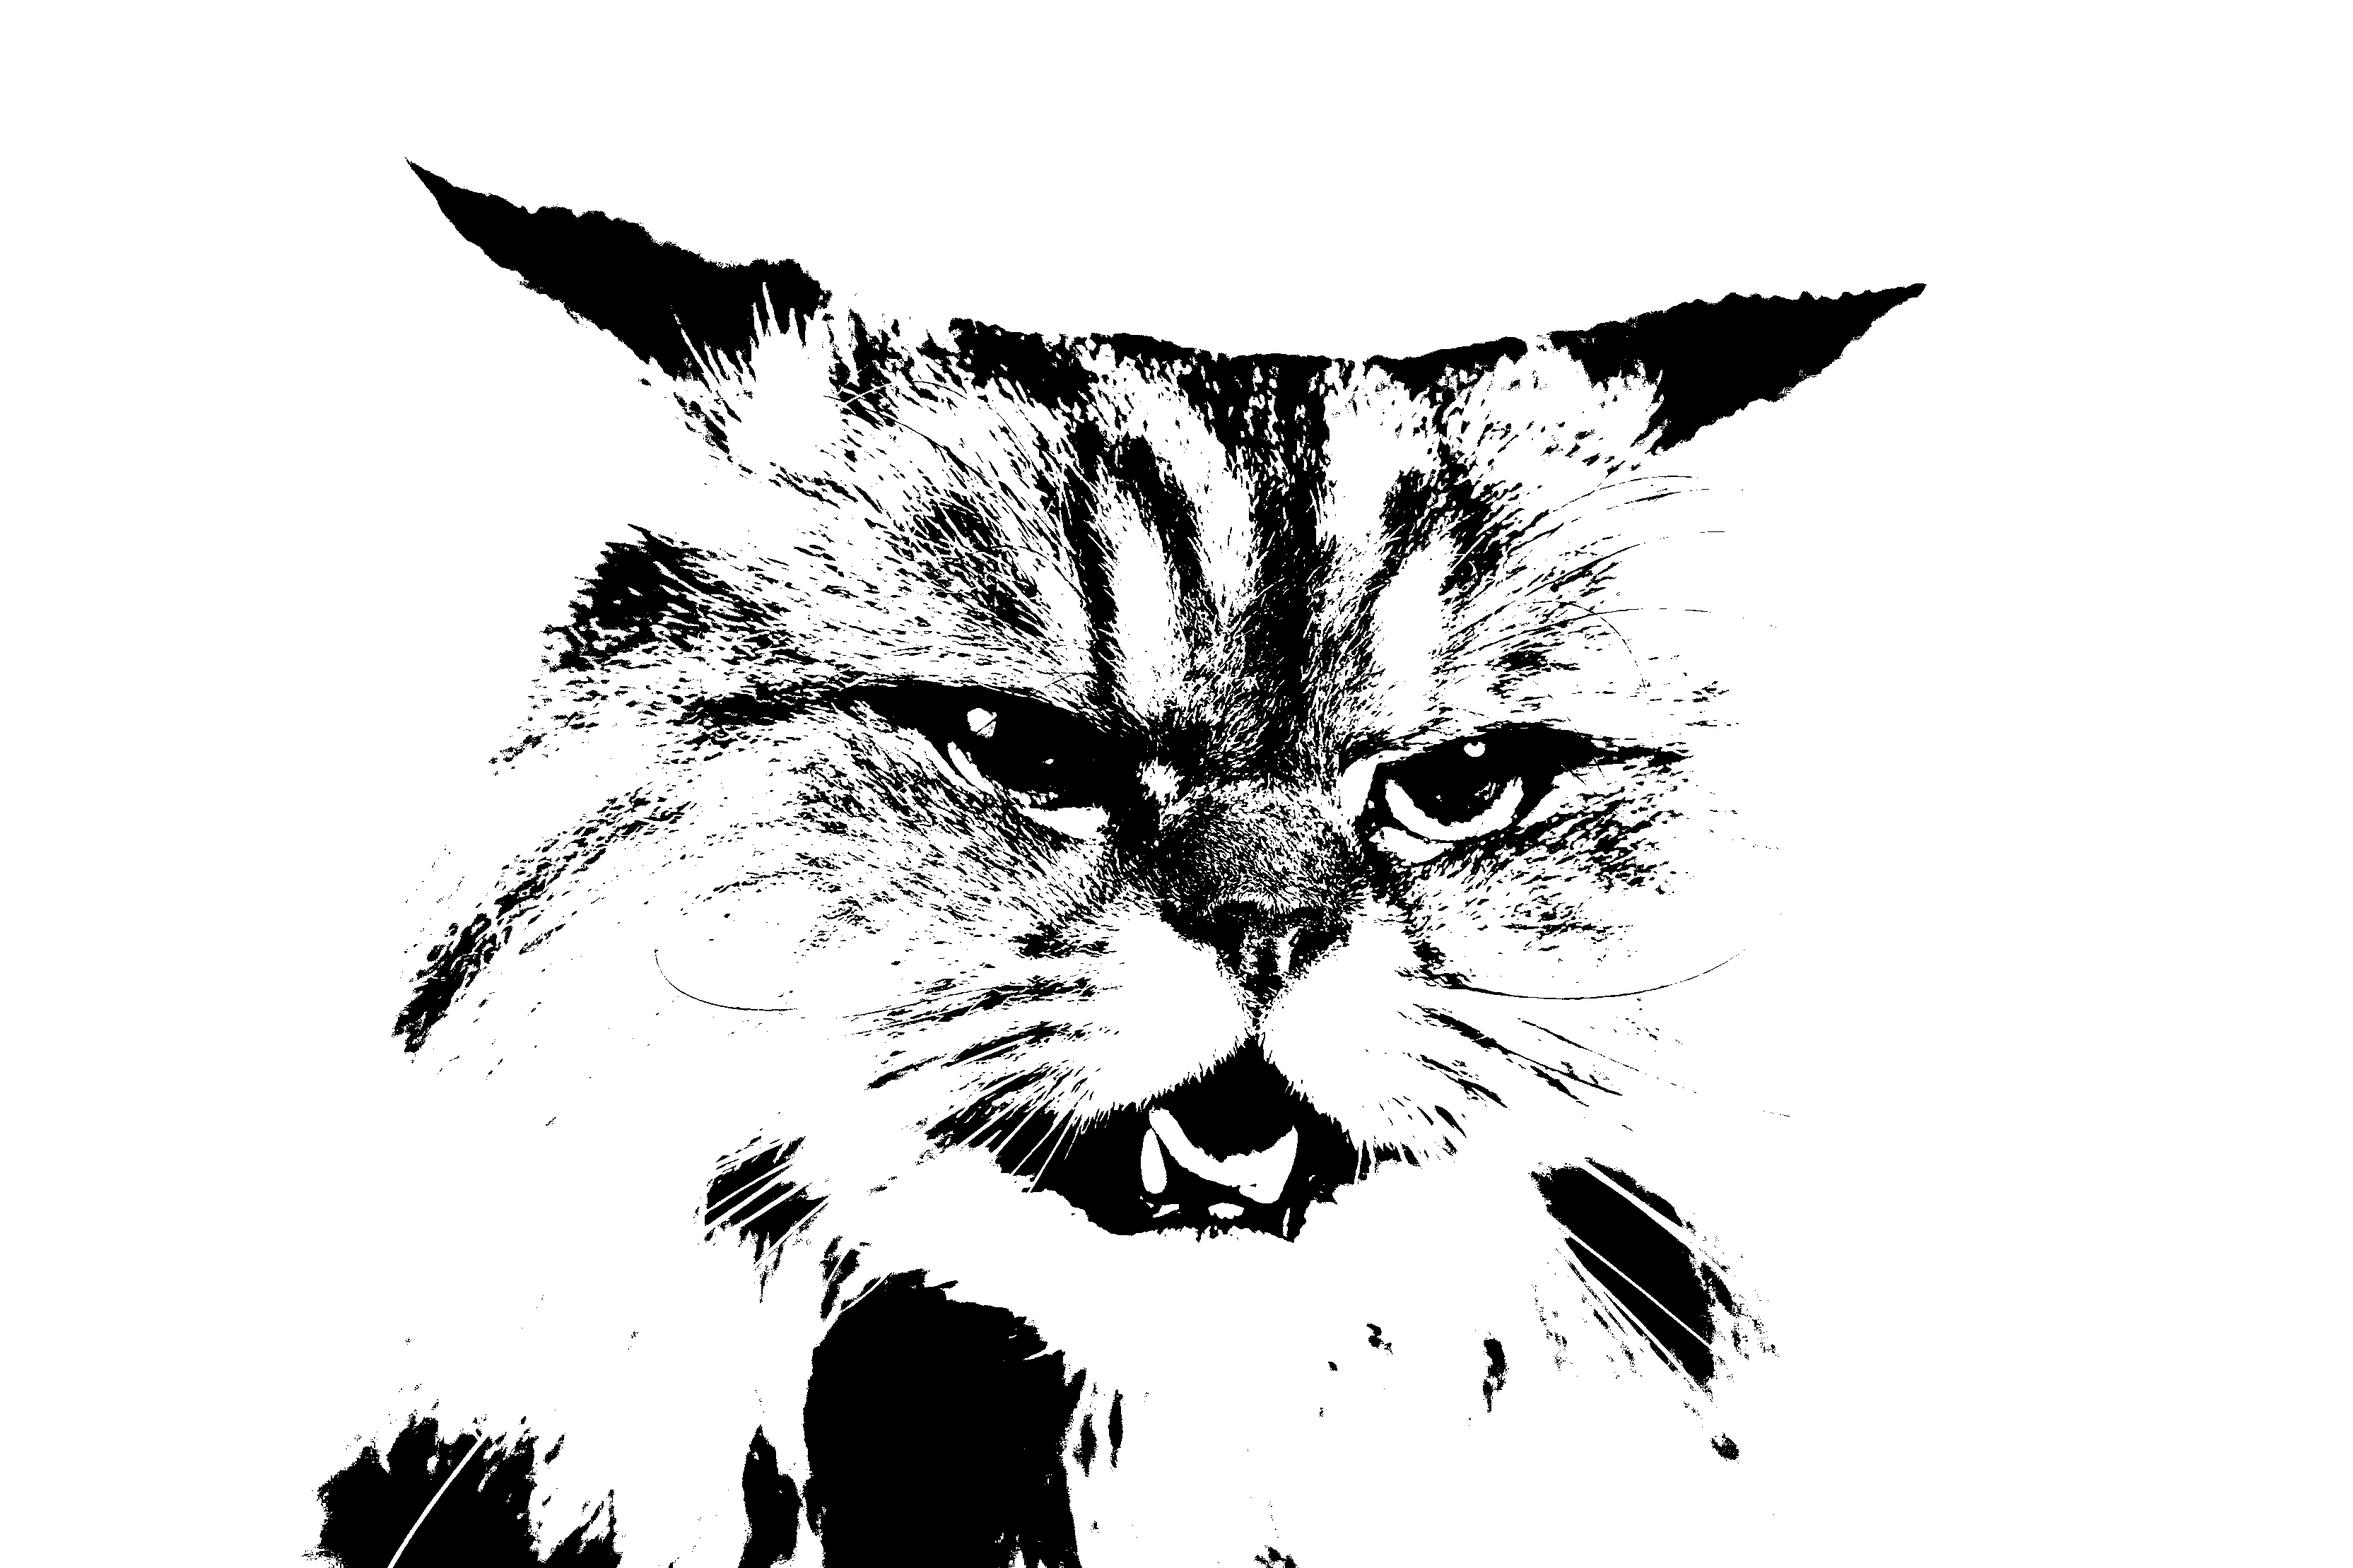
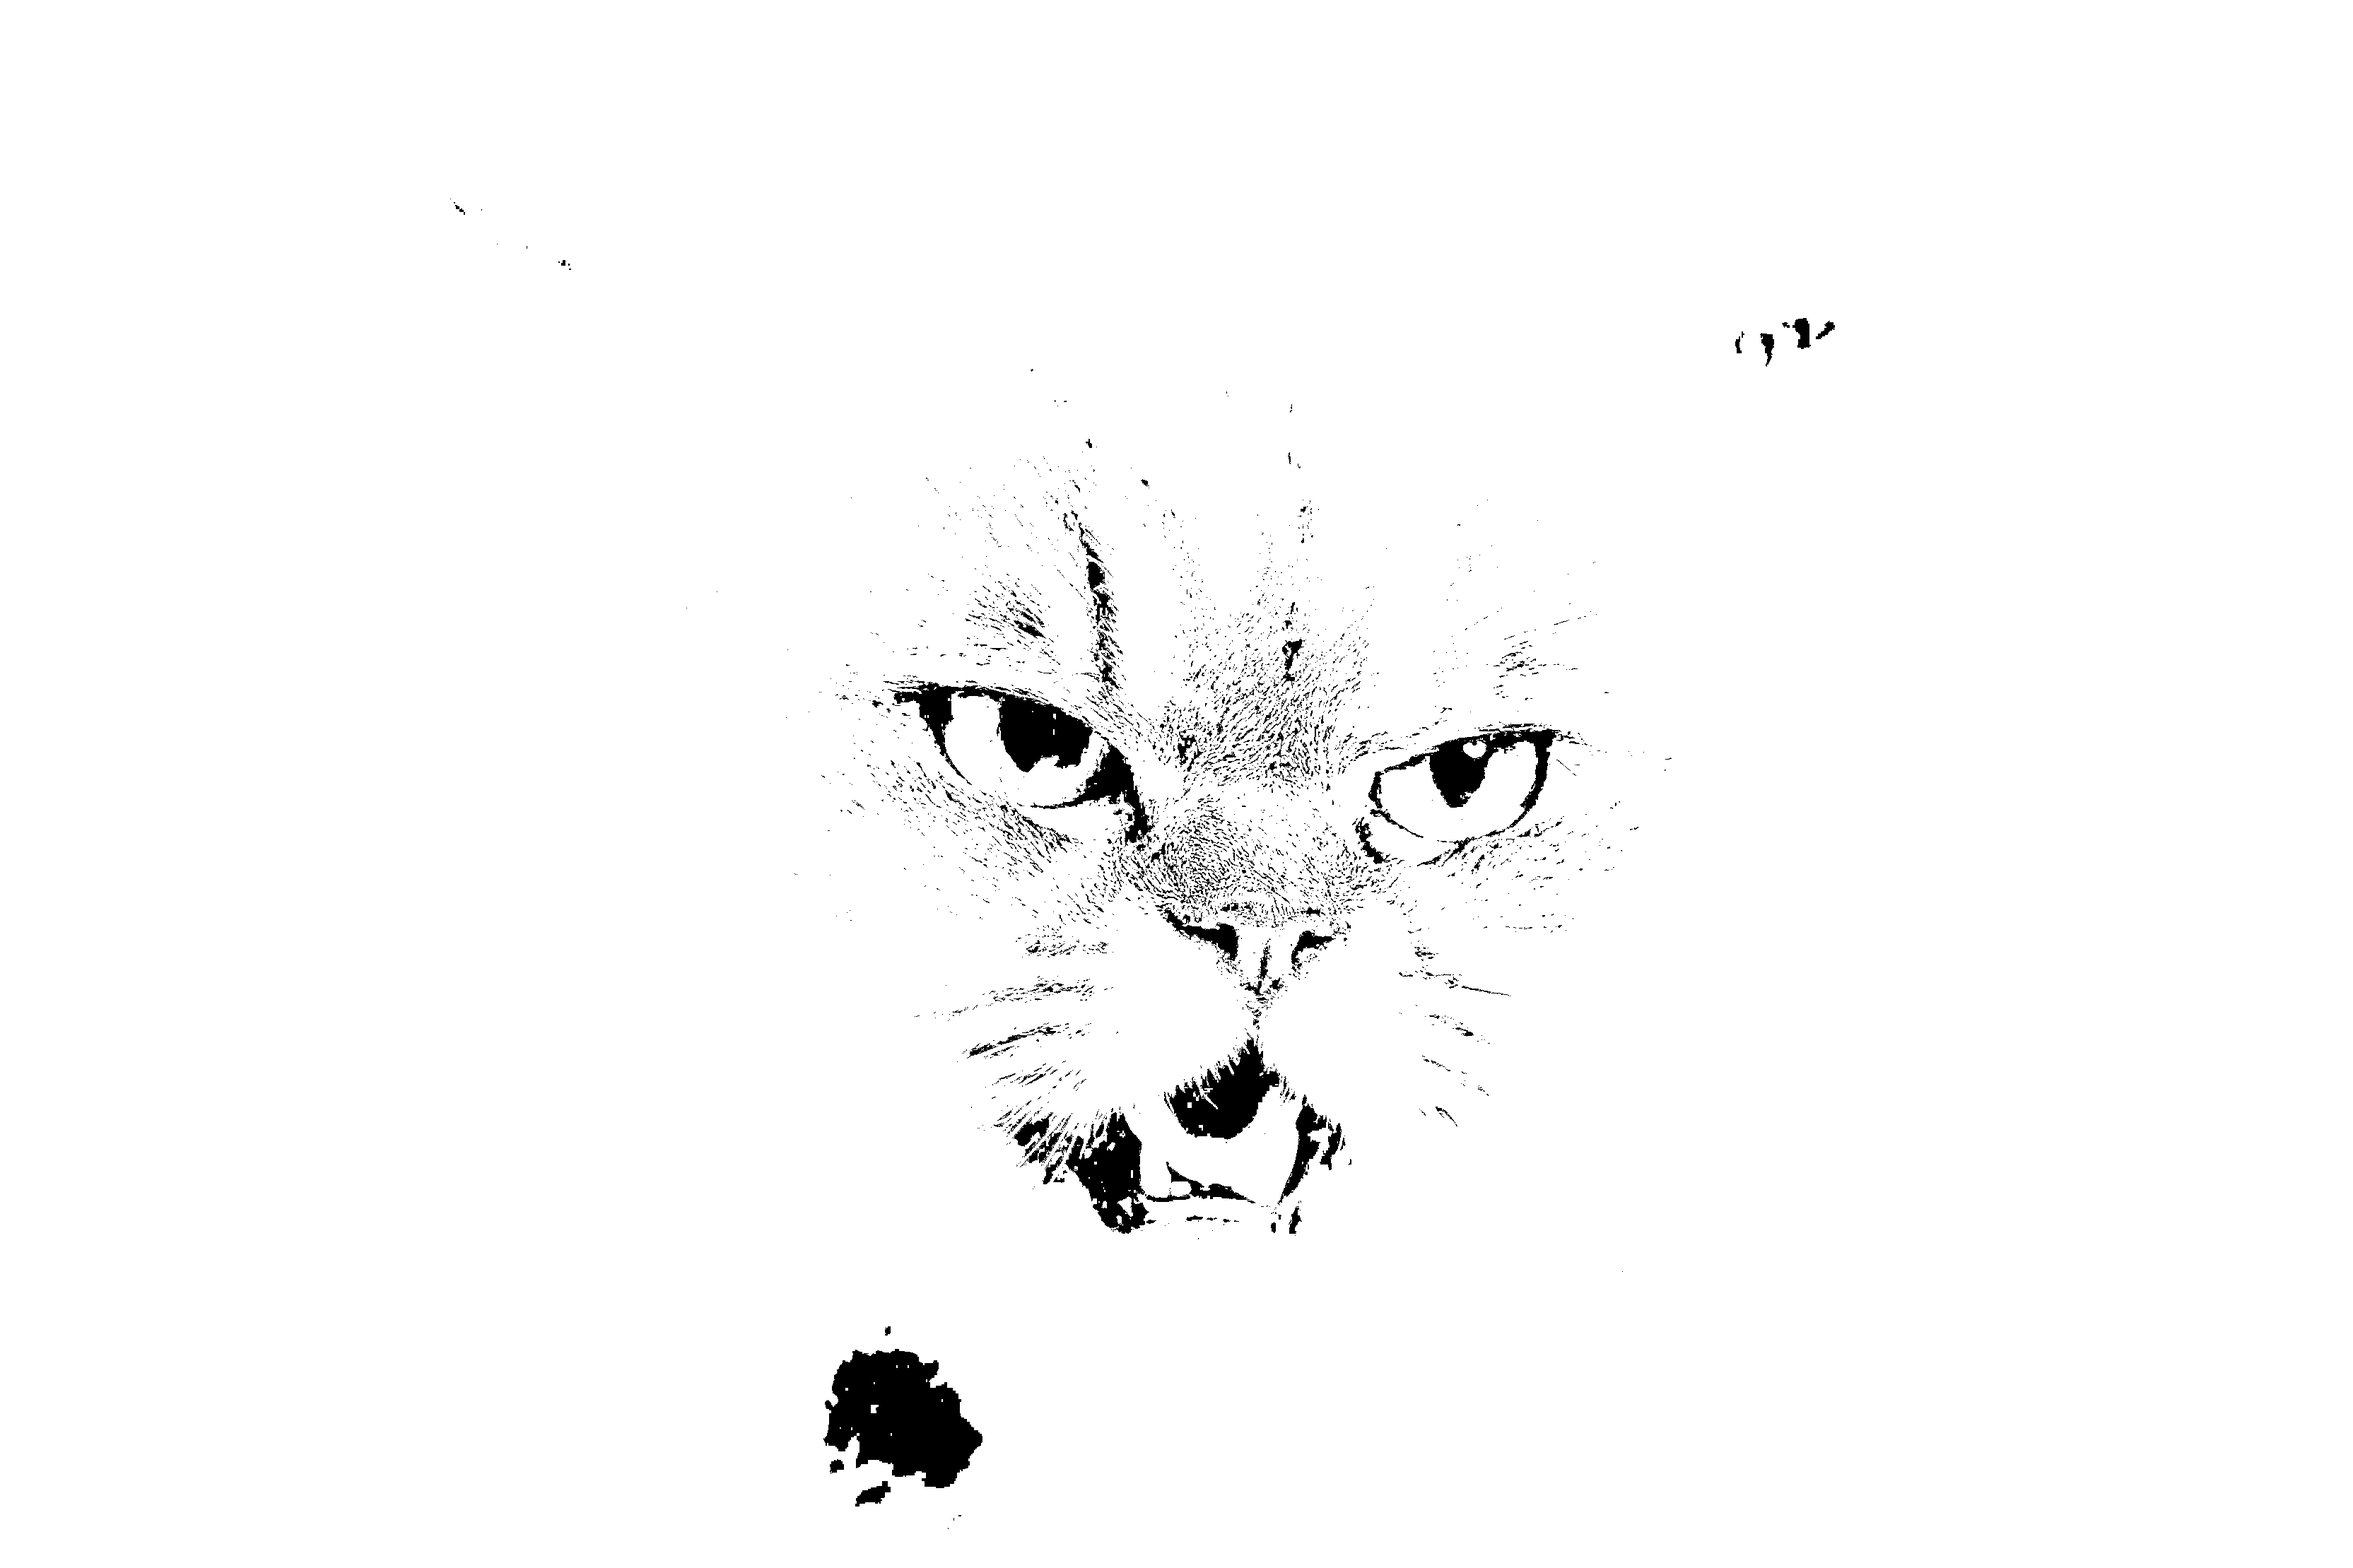
Updated Threshold Controls

diff --git a/EdgeDetection.py b/EdgeDetection.py
@@ -10,6 +10,25 @@ img = loadImg("./img/wired_cat.webp")
 
 """
 
+# Calculate threashhold:
+def calculate_threshold(percentage : int):
+    """_summary_
+
+    Args:
+        percentage (int): out of 100, if less than or more than we discard. Represent the percentage of threshold keep,
+        The higher the percentage the less the edges shown.
+    """
+    max_thresh = 255
+    # 101 because I want to avoid div by 0;
+    if(percentage == 100):
+        return 0
+    elif(percentage > 100 or percentage < 0):
+        print("Percentage is wrong")
+        return 255
+    else:
+        return floor(max_thresh / (percentage))
+
+
 # Grab that image and detect Keep threashold above that required.
 def discard_above_threshold(image, threshold : int, pixel_x : int, pixel_y: int):
     """
@@ -26,7 +45,7 @@ def discard_above_threshold(image, threshold : int, pixel_x : int, pixel_y: int)
     else:
         image[pixel_x][pixel_y] = [255,255,255]
 
-    
+
 
 
 
@@ -40,7 +59,10 @@ dimensions = img_.shape
 height = dimensions[0]
 width = dimensions[1]
 smallestValue = 0
+
+tH = calculate_threshold(90)
+
 for i in range(height):
     for j in range(width):
-        discard_above_threshold(img_, 80, i, j)
+        discard_above_threshold(img_, tH, i, j)
 cv.imwrite("out_images/" + "edgeDetection.png",img_)
